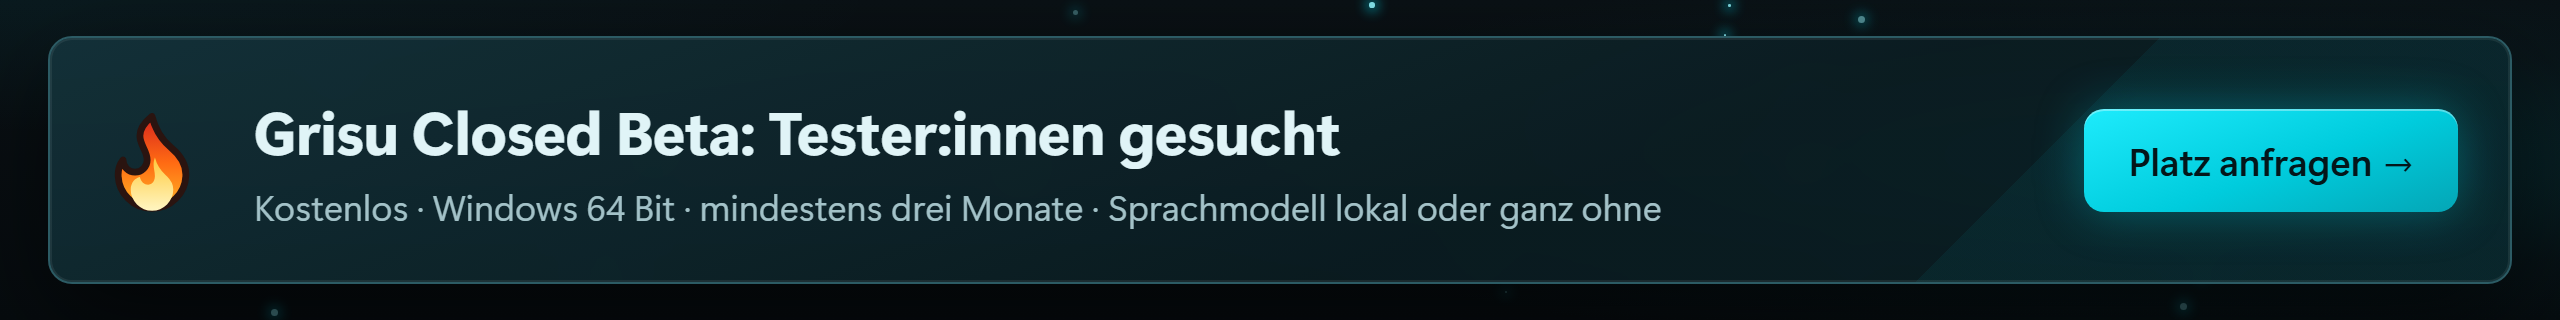
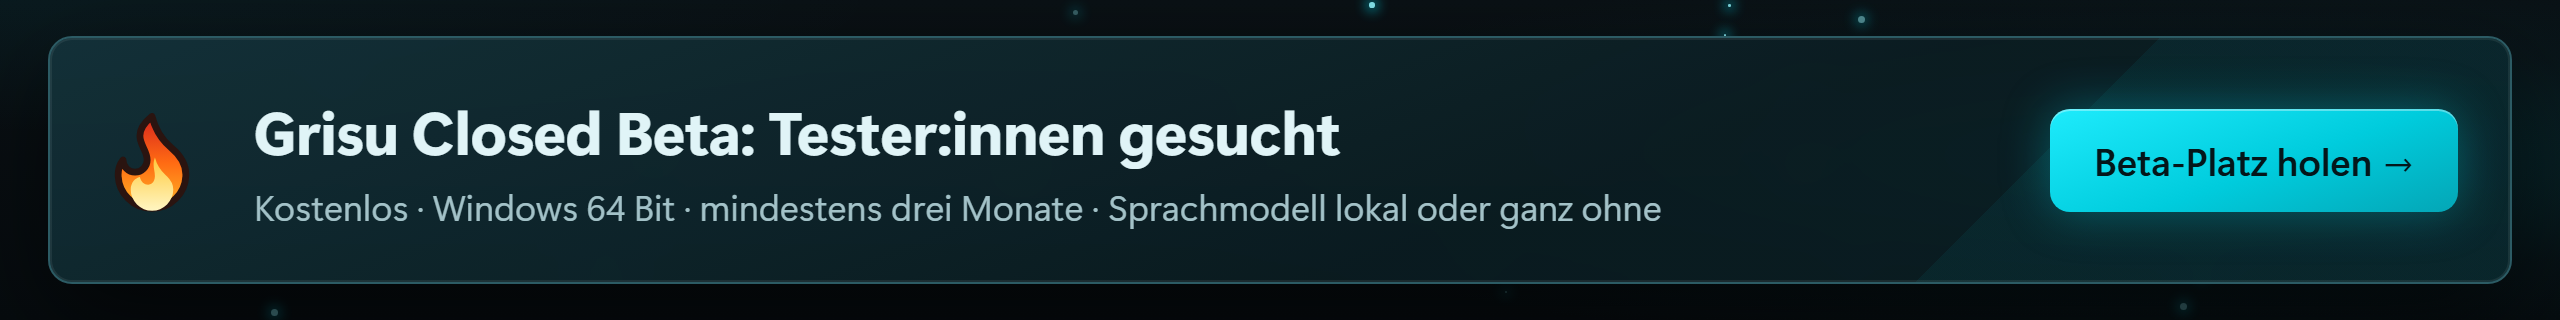
README: Beta-Platz über grisu.beastware-labs.de statt Discussion #2
Banner und Abschnitt „Ausprobieren“ führen jetzt auf die Download-Seite der
neuen Webseite, wo es Download und Teilnehmer-Link mit einem Klick gibt.
Der Knopf im Banner heißt passend „Beta-Platz holen“.

Changed region(s): [[0.7812, 0.3438, 0.9062, 0.6562]]

diff --git a/README.md b/README.md
@@ -3,7 +3,7 @@
 </p>
 
 <p align="center">
-  <a href="https://github.com/beastwareteam/genie-platform/discussions/2"><img src="public/bilder/startseite/grisu_beta.png" width="100%" alt="Grisu Closed Beta: Tester:innen gesucht. Kostenlos, Windows 64 Bit, mindestens drei Monate. Platz anfragen."></a>
+  <a href="https://grisu.beastware-labs.de/download/"><img src="public/bilder/startseite/grisu_beta.png" width="100%" alt="Grisu Closed Beta: Tester:innen gesucht. Kostenlos, Windows 64 Bit, mindestens drei Monate. Beta-Platz holen."></a>
 </p>
 
 # Genie AI Platform
@@ -59,9 +59,13 @@ Dazu: [Videos](public/de/videos.md) — jeweils auch vollständig als Text ·
 ## Ausprobieren
 
 Die Plattform gibt es derzeit als **Grisu Closed Beta**: kostenlos, für Windows 64 Bit,
-mindestens drei Monate lang. Was Sie erwartet, was die Beta von Ihnen erwartet und wie Sie
-einen Platz bekommen, steht in
-**[Discussion #2](https://github.com/beastwareteam/genie-platform/discussions/2)**.
+mindestens drei Monate lang.
+
+**[➜ Beta-Platz holen und herunterladen](https://grisu.beastware-labs.de/download/)** —
+Häkchen setzen, Knopf drücken: Download und persönlicher Teilnehmer-Link erscheinen sofort.
+Was Sie erwartet und was die Beta von Ihnen erwartet, steht auf
+**[grisu.beastware-labs.de](https://grisu.beastware-labs.de/)**; Fragen gern in
+[Discussion #2](https://github.com/beastwareteam/genie-platform/discussions/2).
 
 Danach genügt ein Satz im Chat-Fenster (<kbd>Strg</kbd>+<kbd>K</kbd>). <kbd>F1</kbd> öffnet die
 Hilfe, `/wiki` erklärt die Bedienung.
